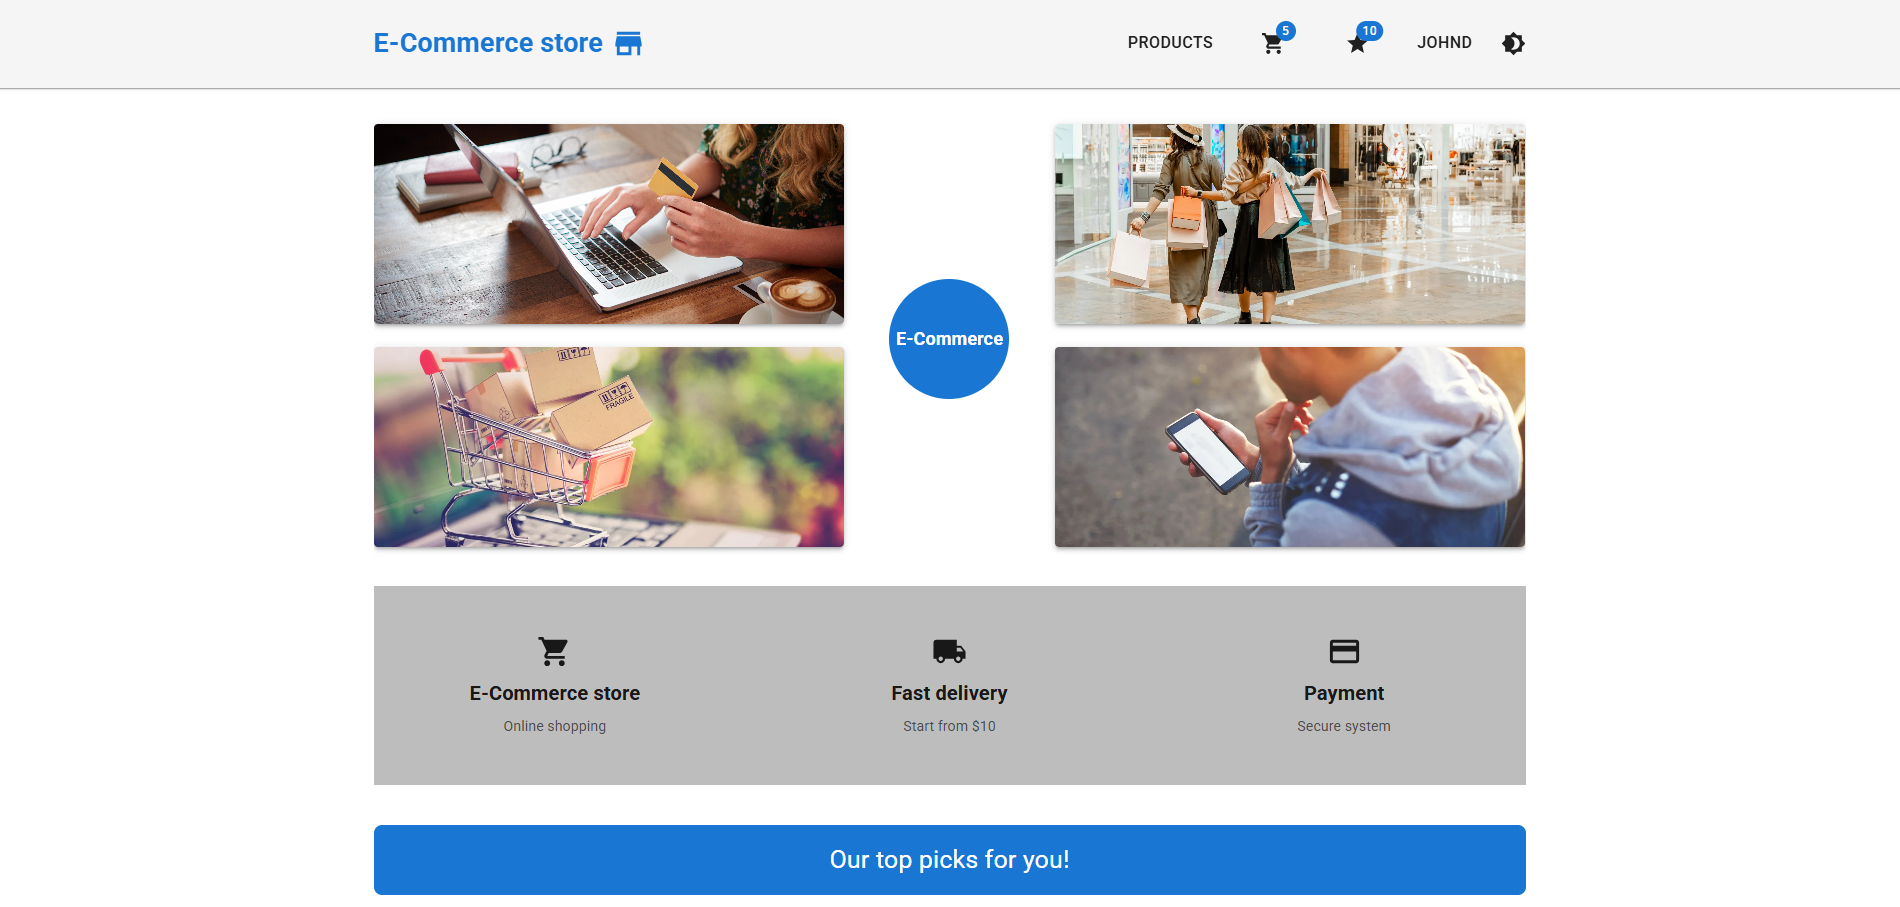
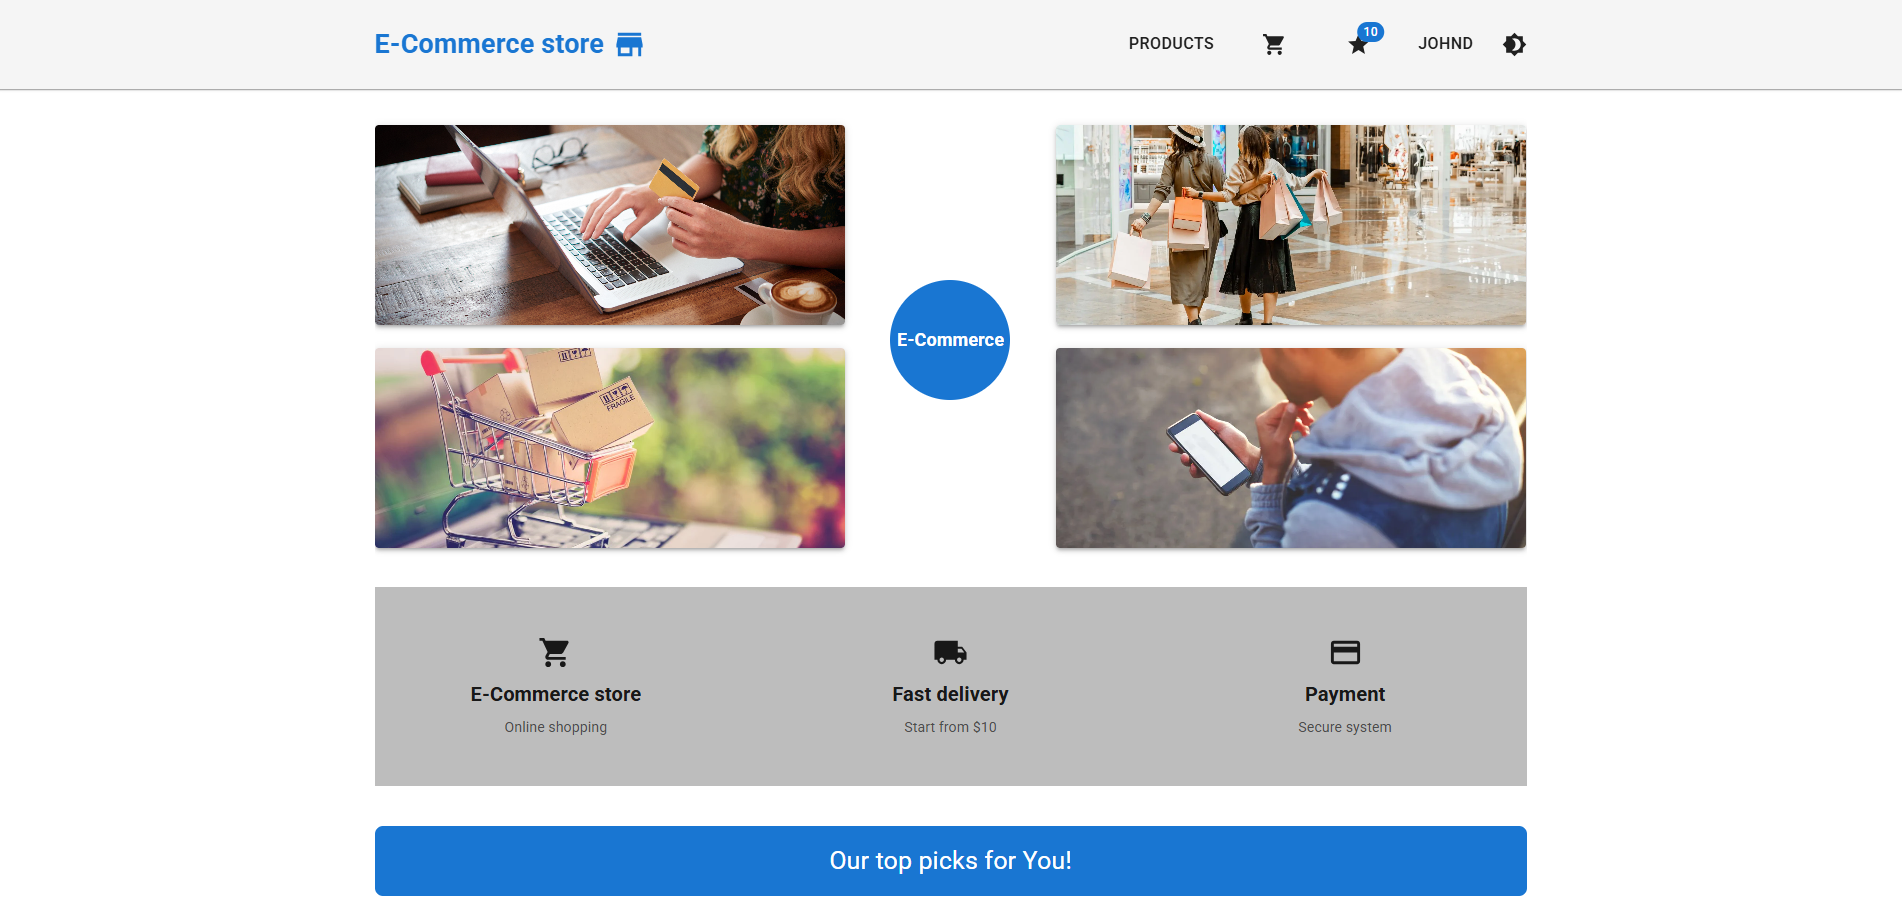
Improved configurations, hooks,  components and README.md

diff --git a/app/src/hooks/useUser.js b/app/src/hooks/useUser.js
@@ -16,60 +16,11 @@ export const useUser = () => {
   const { data: userId } = useUserIdFromUsername();
 
   return useQuery({
-    queryKey: ['user', userId],
-    queryFn: () => fetchUser(userId),
-    enabled: !!userId && !!token,
-    initialData: null, // Gdy enabled = false, React Query nie fetchuje i nie ustawia żadnej wartości data ani isPending
-    // Jeśli nie ustawisz initialData, data może być undefined, a isPending może pozostać true w pierwszym renderze.
-  // // <-- tu ustawiasz null, żeby UI nie pokazywało migających starych danych
+    queryKey: ['user', userId], // Unikalny klucz query w cache, zależny od userId
+    queryFn: () => fetchUser(userId), // Funkcja pobierająca dane użytkownika z API
+    enabled: !!userId && !!token, // Fetch wykonany tylko, jeśli istnieje userId i token
+    initialData: null, // Gdy enabled = false, React Query nie fetchuje i nie ustawia żadnej wartości i data pozostaje null.
+    // Wartość początkowa data = null, bo na początku może nie być userId lub token
+    // Dzięki temu komponent nie dostanie undefined i nie wywoła błędu przy próbie odczytu user.data
   });
 };
-
-// import { useQuery } from '@tanstack/react-query';
-// import { API_URL_FAKE } from '@/constants';
-// import { useSelector } from 'react-redux';
-// import { selectToken } from '@/redux-toolkit/userSlice';
-//
-// export const fetchUser = async (userId, token) => {
-//   const response = await fetch(`${API_URL_FAKE}/users/${userId}`, {
-//     headers: {
-//         // ✅ Podsumowując: token nie jest potrzebny do pobrania danych testowych, ale w realnej aplikacji REST API token chroni prywatne dane użytkownika.
-//       Authorization: `Bearer ${token}`, // używamy tokena z Redux
-//     },
-//   });
-//   if (!response.ok) throw new Error('Failed to fetch user');
-//   return response.json();
-// };
-//
-// export const useUser = (userId) => {
-//   const token = useSelector(selectToken); // bierzemy token z Redux
-//
-//   return useQuery({
-//     queryKey: ['user', userId],
-//     queryFn: () => fetchUser(userId, token),
-//     enabled: !!userId && !!token, // fetch tylko jeśli mamy userId i token
-//   });
-// };
-
-//💡 W skrócie:
-// useLogin.username → wartość z formularza do logowania
-// useUser.username → wartość z API, część pełnego profilu użytkownika
-
-// export const fetchUser = async (userId, token) => {
-//   const response = await fetch(`${API_URL_FAKE}/users/${userId}`, {
-//     headers: {
-//       Authorization: `Bearer ${token}`,
-//     },
-//   });
-//   if (!response.ok) throw new Error('Failed to fetch user');
-//   const data = await response.json();
-//   return data; // zwraca pełny obiekt user
-// };
-//
-// export const useUser = (userId, token) => {
-//   return useQuery({
-//     queryKey: ['user', userId],
-//     queryFn: () => fetchUser(userId, token),
-//     enabled: !!token && !!userId,
-//   });
-// };

diff --git a/app/src/hooks/useProducts.js b/app/src/hooks/useProducts.js
@@ -4,15 +4,6 @@ import { FAKE_API_URL } from '@/constants';
 // Jeśli spróbujesz zrobić categories.map(c => useProducts({ category: c })) → błąd hooków, bo hooki nie mogą być wywoływane w pętli.
 // useProducts jest zaprojektowany do jednej kategorii na raz — jego queryKey i queryFn odnoszą się do konkretnej kategorii. Nie możesz go użyć w pętli dla wielu kategorii, bo hooki nie mogą być wywoływane dynamicznie w mapie (to złamanie zasad hooków Reacta).
 export const fetchProducts = async ({ category, limit, sort } = {}) => {
-  /**
-   Jeśli category jest podane, URL zmienia się na /products/category/:category.
-
-Ten endpoint zwraca tylko produkty w tej kategorii.
-
-Przykład: /products/category/electronics → wszystkie produkty elektroniczne.
-
-Jeśli category nie jest podane (undefined), URL pozostaje /products -> zwraca wszystkie produkty, niezależnie od kategorii.
-   */
 
   /**
    * Pobiera produkty z Fake Store API.
@@ -32,15 +23,15 @@ Jeśli category nie jest podane (undefined), URL pozostaje /products -> zwraca w
   let url = category ? `${FAKE_API_URL}/products/category/${encodeURIComponent(category)}` : `${FAKE_API_URL}/products`;
 
   /**
-   * URLSearchParams jest klasą, więc musisz najpierw utworzyć jej instancję, żeby używać append().
+   * URLSearchParams jest klasą, więc trzeba najpierw utworzyć jej instancję, żeby używać append().
 URLSearchParams().toString() to po prostu wygodny sposób na zamianę danych z obiektu JavaScript na poprawny, sformatowany ciąg znaków, który przeglądarki i serwery potrafią odczytać jako listę parametrów URL.
    */
   const params = new URLSearchParams();
   if (limit) params.append('limit', limit);
   if (sort) params.append('sort', sort);
 
-  // limit=5&sort=desc
-  // ✅ Znak & dodaje JS sam, nie musisz tego robić ręcznie.
+  // limit=3&sort=desc
+  // ✅ Znak & dodaje JS sam, nie trzeba tego robić ręcznie.
   if ([...params].length) {
     url += `?${params.toString()}`;
   }
@@ -52,10 +43,8 @@ URLSearchParams().toString() to po prostu wygodny sposób na zamianę danych z o
   return data;
 };
 
-/**Chroni przed błędem, gdy ktoś wywoła useProducts() bez żadnych parametrów.
-
-Wtedy category, limit i sort będą undefined, a funkcja nadal zadziała. */
-// Funkcja strzałkowa bez klamer i return:
+/** Domyślnie przekazany pusty obiekt = {} chroni przed błędem, gdy ktoś wywoła useProducts() bez żadnych parametrów / argumentów.
+Wtedy category, limit i sort będą undefined, a funkcja nadal zadziała. bez tego ={} byłby błąd typu „Cannot destructure property of undefined” */
 export const useProducts = ({ category, limit, sort } = {}) =>
   useQuery({
     queryKey: ['products', { category, limit, sort }], // queryKey pełni rolę tablicy zależności

diff --git a/app/src/hooks/useProductsInfinite.js b/app/src/hooks/useProductsInfinite.js
@@ -13,7 +13,7 @@ import { FAKE_API_URL } from '@/constants';
  */
 export const fetchProductsInfinite = async ({ category, sort = 'asc' } = {}) => {
   // = {} na końcu ma inną rolę: gwarantuje, że jeśli funkcja zostanie wywołana bez argumentu w ogóle, np. fetchProductsInfinite(), to destrukturyzacja nie wyrzuci błędu.
-  // Nie do końca – wartość domyślna sort = 'asc' działa tylko jeśli argument sort w ogóle nie istnieje w przekazanym obiekcie.
+  // Wartość domyślna sort = 'asc' działa tylko jeśli argument sort w ogóle nie istnieje w przekazanym obiekcie.
   const url = category
     ? `${FAKE_API_URL}/products/category/${encodeURIComponent(category)}`
     : `${FAKE_API_URL}/products`;
@@ -40,7 +40,7 @@ export const useProductsInfinite = ({ category, pageSize = 6, sort, search = '',
     queryKey: ['products-infinite', { category, sort, search, rating }],
     // pageParam = 0 w hooku to startowy indeks w tablicy produktów, od którego zaczyna się wycinek (slice) dla pierwszej „strony” infinite scroll.
     queryFn: async ({ pageParam = 0 }) => {
-      // 🔹 jeśli category === 'all', traktujemy jak pusty string
+      // Jeśli category === 'all', traktujemy jak pusty string
       // Nie ma kategorii "all". Jeśli w URL wpiszesz /products/category/all, API zwróci 404 albo pustą tablicę. Dlatego w hooku, gdy użytkownik wybiera All, trzeba przekazać pusty string, żeby triggerować GET /products zamiast /products/category/all.
       // '' (pusty string) oznacza fetch wszystkich produktów: /products zamiast /products/category/all.
       const cat = category === 'all' ? '' : category; // W skrócie: "all" w UI to → '' w kodzie, czyli → /products w API bez kategorii

diff --git a/app/src/hooks/useUserIdFromUsername.js b/app/src/hooks/useUserIdFromUsername.js
@@ -3,8 +3,8 @@ import { FAKE_API_URL } from '@/constants';
 import { useSelector } from 'react-redux';
 import { selectUsername } from '@/store/authSlice';
 
-export const fetchfetchUserIdByUsername = async (username) => {
-  //Funkcję możesz używać też poza hookiem (np. w testach albo w innych miejscach), więc sprawdzenie if (!username) zabezpiecza ją przed błędami.
+export const fetchUserIdByUsername = async (username) => {
+  // Funkcję można używać też poza hookiem (np. w testach albo w innych miejscach), więc sprawdzenie if (!username) zabezpiecza ją przed błędami.
   // Nawet jeśli w hooku mamy enabled: !!username, w innych miejscach ktoś może przypadkowo wywołać funkcję z pustym username.
   if (!username) return null;
 
@@ -18,9 +18,9 @@ export const useUserIdFromUsername = () => {
   const username = useSelector(selectUsername);
 
   return useQuery({
-    queryKey: ['userId', username],
-    queryFn: () => fetchfetchUserIdByUsername(username),
-    enabled: !!username,
-    initialData: null, // na początku brak danych → UI może pokazać spinner
+    queryKey: ['userId', username], // Unikalny klucz w cache React Query, zależny od username; pozwala odróżnić różne zapytania
+    queryFn: () => fetchUserIdByUsername(username), // Funkcja, która pobiera userId dla danego username z API
+    enabled: !!username, // Hook fetchuje dane tylko jeśli username istnieje (zapobiega błędom przy undefined/null)
+    initialData: null, // Wartość początkowa danych = null, dzięki czemu UI może np. pokazać Spinner zamiast błędu
   });
 };

diff --git a/app/src/hooks/useLogin.js b/app/src/hooks/useLogin.js
@@ -1,20 +1,8 @@
 import { useMutation } from '@tanstack/react-query';
-// import { useNavigate } from 'react-router-dom';
-// import { useDispatch } from 'react-redux';
 import { FAKE_API_URL } from '@/constants';
-// import { login } from '@/store/userSlice';
 
-/**
- 🔹 Zasada wspólna
-
-Oddzielasz logikę fetch/mutate od komponentu → czysty kod.
-
-Custom hook zwraca wszystko, co potrzebujesz w komponencie: status, dane, metody.
-
-React Query zajmuje się stanem ładowania, błędami, cache’em i refetchowaniem.
- */
+// React Query zajmuje się stanem ładowania, błędami, cache’em i refetchowaniem.
 const loginRequest = async ({ username, password }) => {
-  //  const response = await fetch(`${API_URL}/auth/login`
   const response = await fetch(`${FAKE_API_URL}/auth/login`, {
     method: 'POST',
     headers: { 'Content-Type': 'application/json' },
@@ -25,12 +13,8 @@ const loginRequest = async ({ username, password }) => {
     throw new Error('Invalid username or password');
   }
 
-  const data = await response.json(); 
+  const data = await response.json();
   return data; // zwraca tylko token { token }
 };
 
-// 💡 W skrócie:
-// useLogin.username → wartość z formularza do logowania
-// useUser.username → wartość z API, część pełnego profilu użytkownika
-// Funkcja strzałkowa bez klamer i return:
 export const useLogin = () => useMutation({ mutationFn: loginRequest });

diff --git a/app/src/hooks/useProduct.js b/app/src/hooks/useProduct.js
@@ -10,10 +10,12 @@ const fetchProduct = async (id) => {
 
 export const useProduct = (id) =>
   useQuery({
-    queryKey: ['product', id], // queryKey pełni rolę tablicy zależności
-    queryFn: () => fetchProduct(id),
-    staleTime: 1000 * 60 * 5,
-    cacheTime: 1000 * 60 * 10,
-    retry: 1,
-    enabled: !!id, // fetchuje tylko jeśli id istnieje
+    queryKey: ['product', id], // queryKey pełni rolę tablicy zależności, unikalny klucz zapytania: identyfikuje dane w cache. Zależny od ID produktu
+    queryFn: () => fetchProduct(id), // Funkcja, która pobiera dane produktu z API
+    staleTime: 1000 * 60 * 5, // Czas (ms), przez który dane są traktowane jako "świeże" i nie są ponownie pobierane (5 minut)
+    cacheTime: 1000 * 60 * 10, // Czas (ms), przez który dane pozostają w cache po tym, jak stają się nieświeże (10 minut)
+    retry: 1, // Liczba ponownych prób w przypadku błędu fetchowania (1 = próba raz)
+    enabled: !!id, // Fetch zostanie wykonany tylko jeśli ID istnieje (zapobiega fetchowaniu przy null/undefined)
+    // Tutaj initialData nie jest potrzebne, bo komponent może poczekać aż data zostanie pobrana,
+    // a React Query automatycznie ustawia data = undefined do momentu fetcha.
   });

diff --git a/app/src/pages/Home.jsx b/app/src/pages/Home.jsx
@@ -64,27 +64,25 @@ const Home = () => {
         }}
       >
         <Box
-          // component="span"
+          component="span"
           sx={{
-            // display: 'inline-block',
-            //paddingLeft: '100%', // start poza ekranem
-            // animation: 'marquee 10s linear infinite',
+            display: 'inline-block',
+            paddingLeft: '100%', // start poza ekranem
+            animation: 'marquee 10s linear infinite',
             color: theme.palette.info,
-            display: 'flex',
-            justifyContent: 'center'
           }}
         >
-          Our top picks for you!
+          Our top picks for You!
         </Box>
 
-        {/* <style>
+        <style>
           {`
       @keyframes marquee {
         0% { transform: translateX(0%); }
         100% { transform: translateX(-100%); }
       }
     `}
-        </style> */}
+        </style>
       </Box>
       {categories.map((category, index) => {
         const products = productsQueries[index].data || [];

diff --git a/app/src/hooks/usePostOrder.js b/app/src/hooks/usePostOrder.js
@@ -5,9 +5,7 @@ import { FAKE_API_URL } from '@/constants';
 const postOrder = async (orderData) => {
   const response = await fetch(`${FAKE_API_URL}/carts`, {
     method: 'POST',
-    headers: {
-      'Content-Type': 'application/json',
-    },
+    headers: { 'Content-Type': 'application/json' },
     body: JSON.stringify(orderData),
   });
 

diff --git a/app/src/components/common/FavouriteItemCard.jsx b/app/src/components/common/FavouriteItemCard.jsx
@@ -22,7 +22,6 @@ export const FavouriteItemCard = ({ id, image, title, description, price }) => {
         borderRadius: 1,
         p: 2,
         position: 'relative',
-        // width: '100%',
       }}
     >
       {/* Gwiazdka toggle */}

diff --git a/app/src/__mocs__/data.js b/app/src/__mocs__/data.js
@@ -1,0 +1,11 @@
+import { http, HttpResponse } from 'msw';
+
+export const dataHandlers = [
+    http.get(
+        "http://example.com/data",
+        () => {
+            return HttpResponse.json({ name: 'CodersLab'})
+        }
+    )
+];
+

diff --git a/app/src/__mocs__/server.js b/app/src/__mocs__/server.js
@@ -1,0 +1,7 @@
+import { setupServer } from 'msw/node';
+
+import { dataHandlers } from "@/data";
+
+const handlers = [...dataHandlers];
+
+export const server = setupServer(...handlers);
